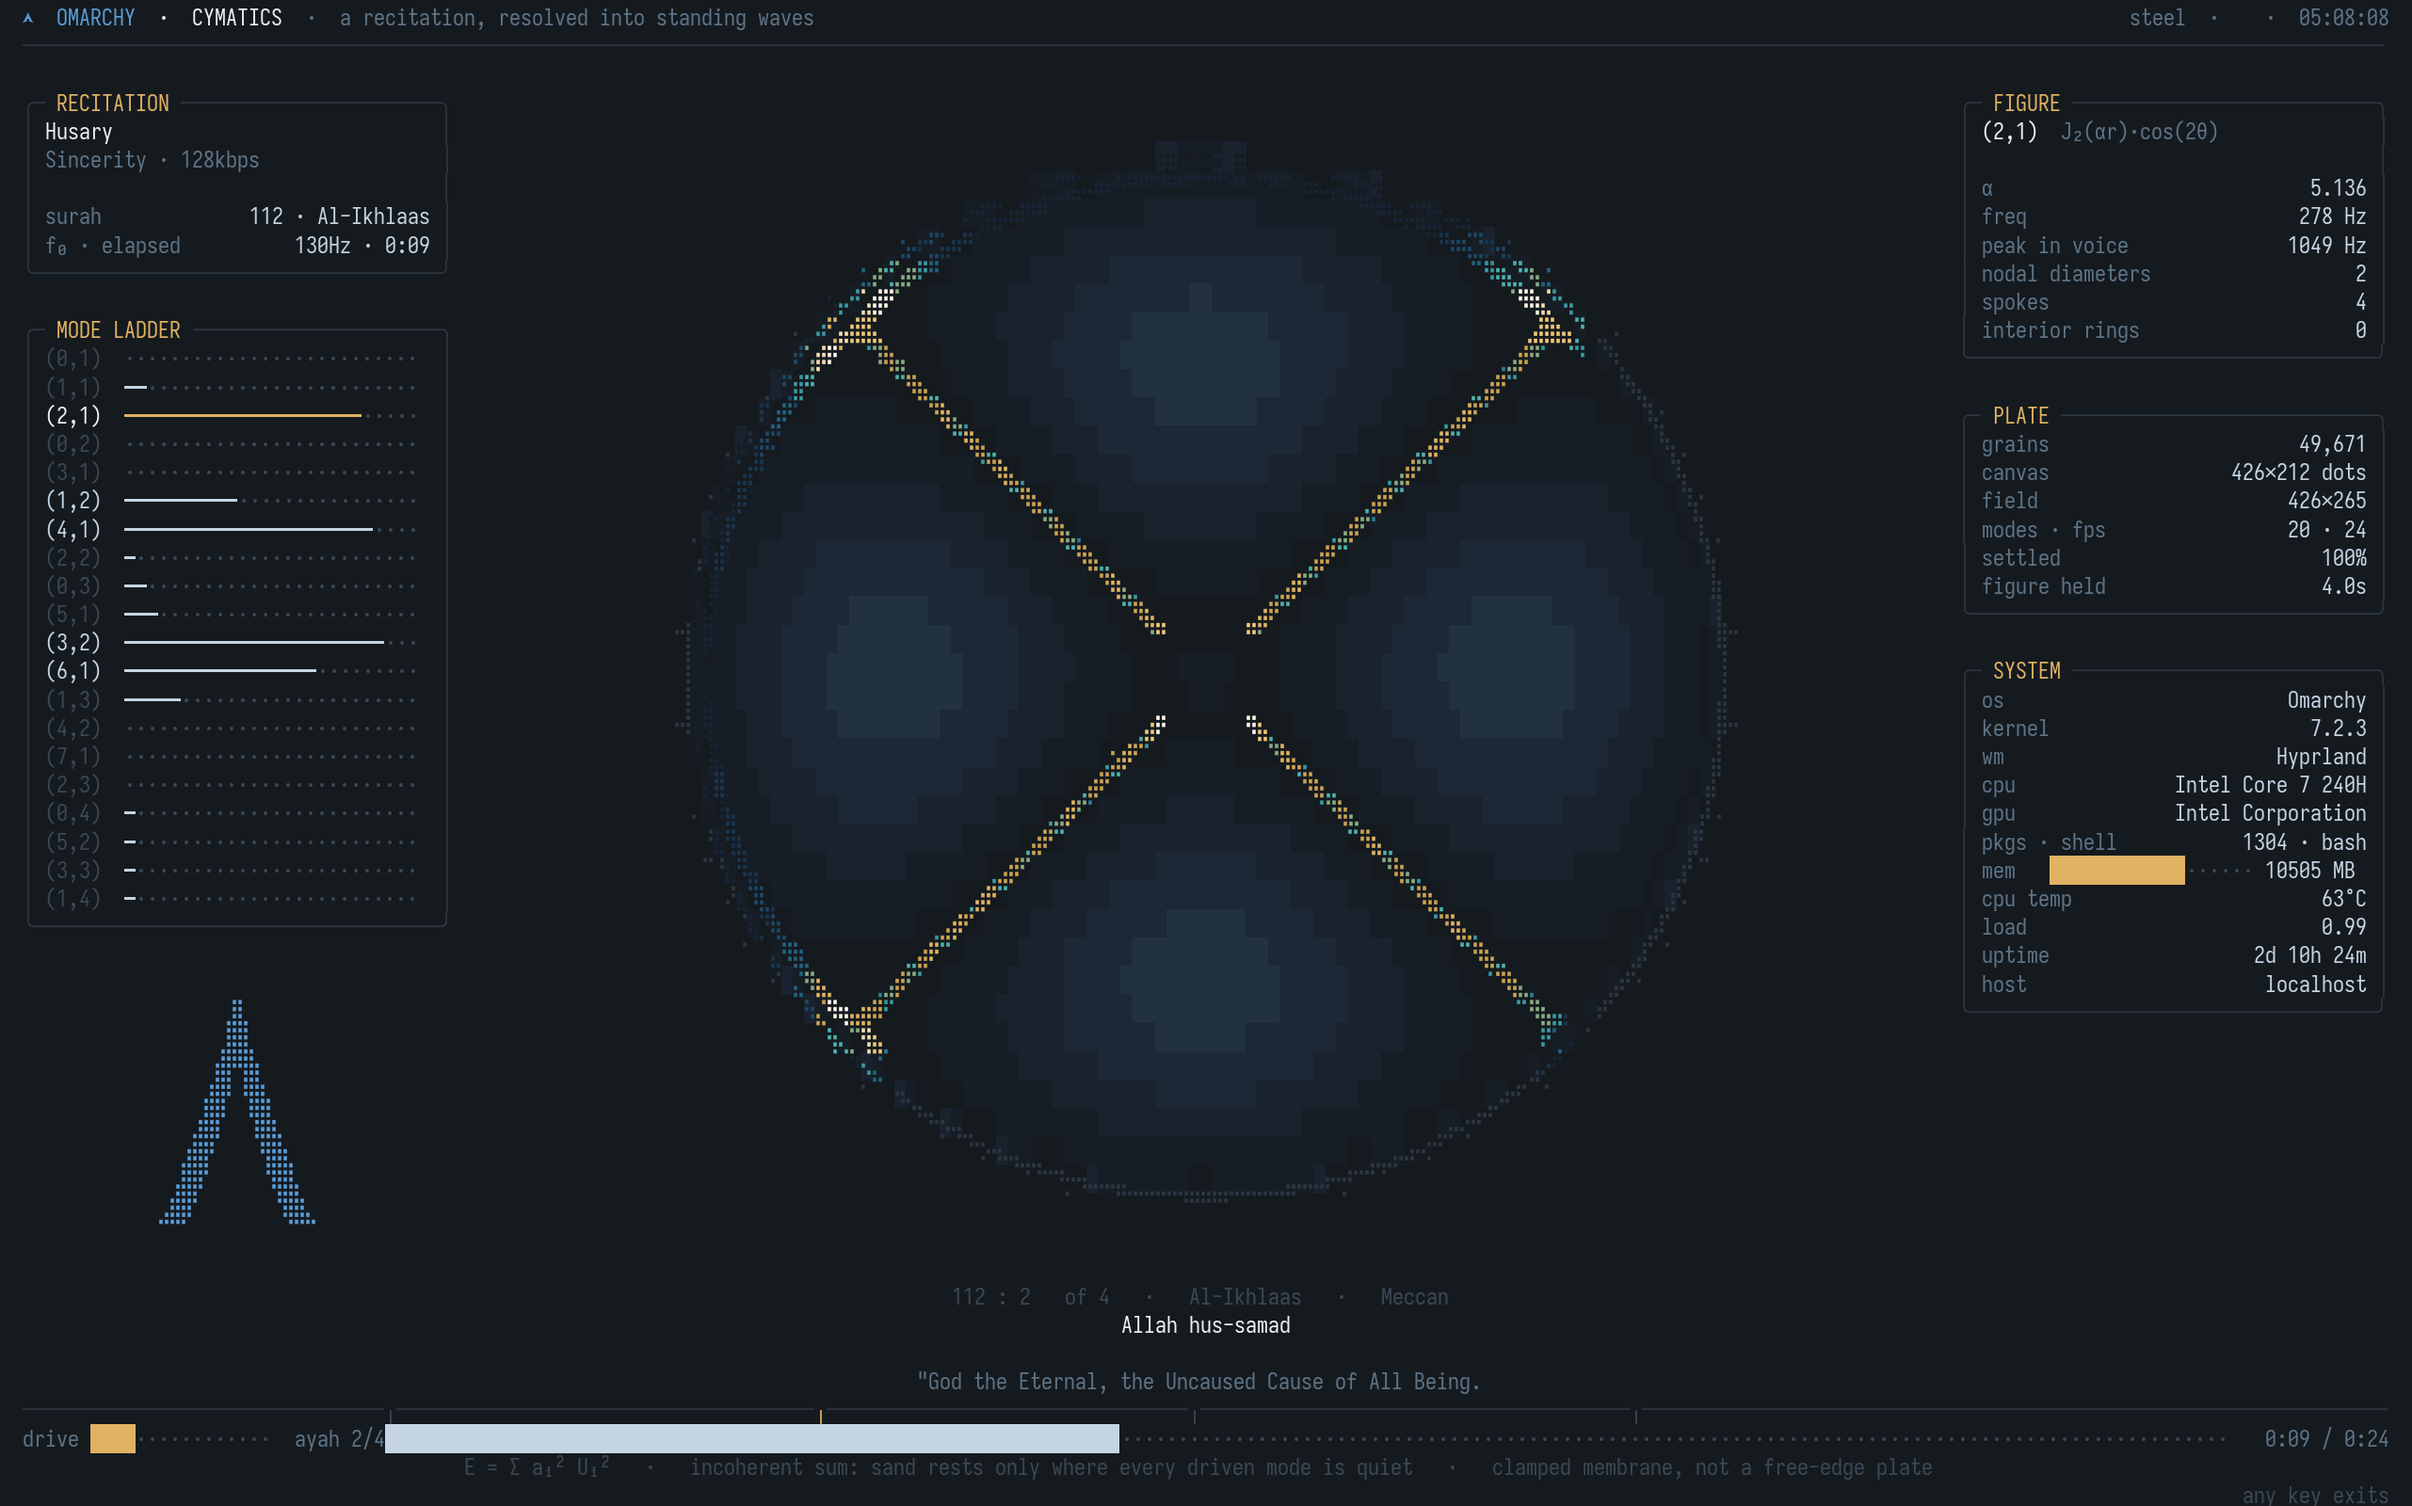
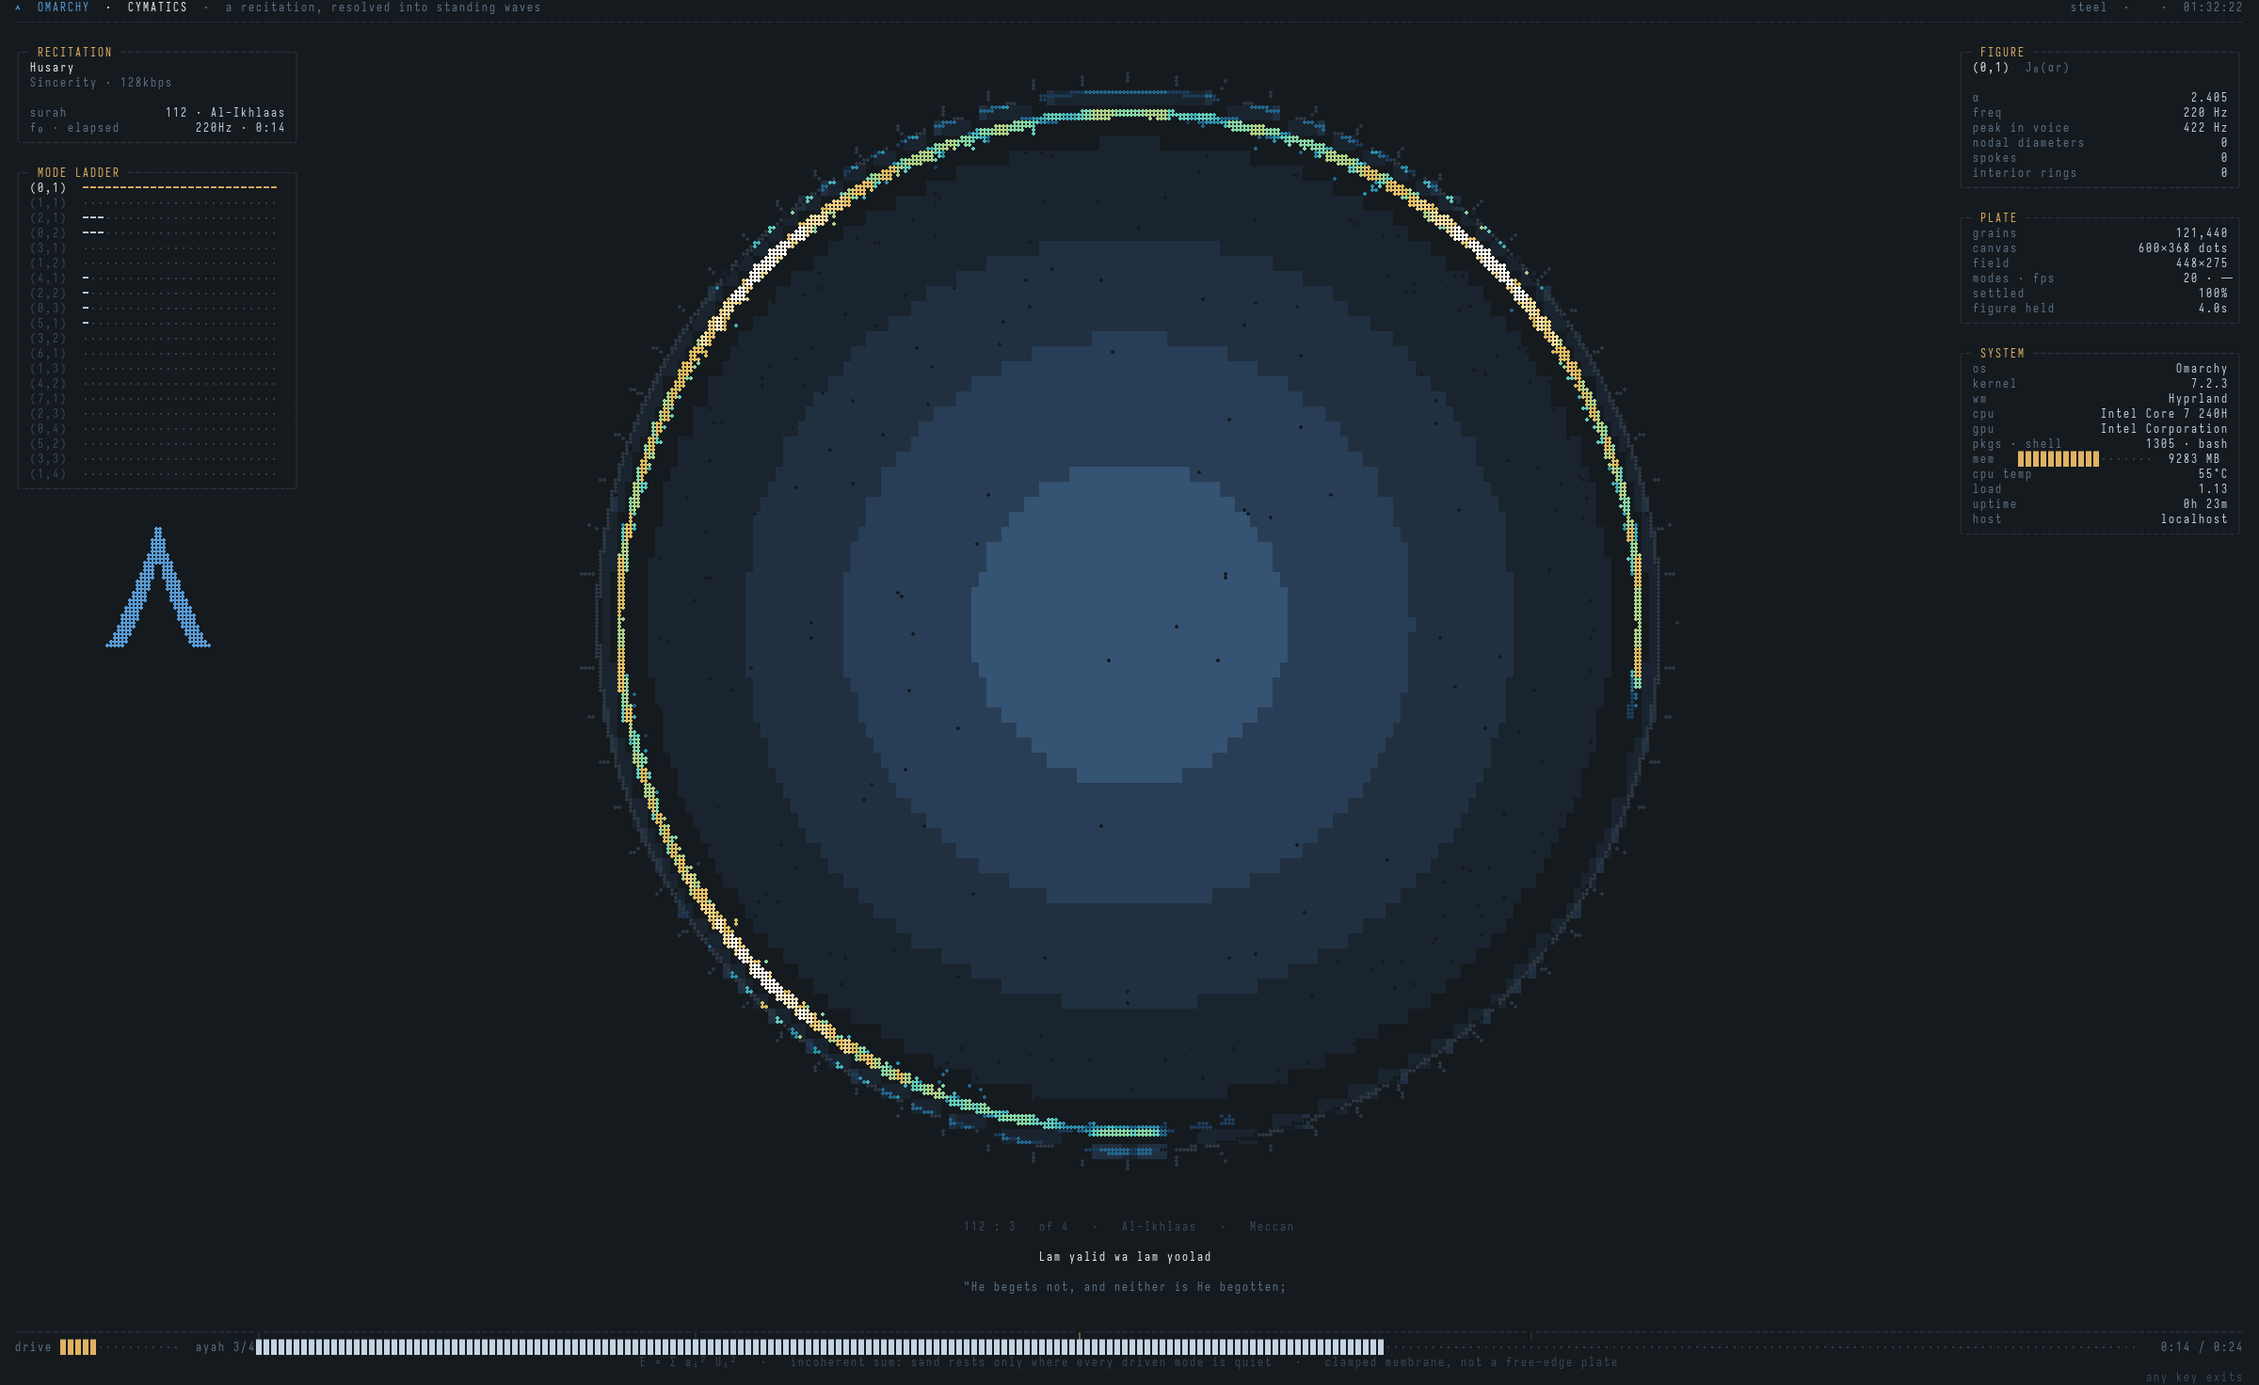
fix --start at display refresh rates; README catches up with what the code does
--START WAS BROKEN BY THE REFRESH-RATE CHANGE. It converted seconds to timeline
frames with args.fps, which was 24 -- the timeline's own rate -- until the
display's refresh rate became the default. On a 240Hz monitor `--start 3000`
asked for frame 720,000 of a 170,220-frame timeline and was clamped to the last
frame, so every --start rendered the same final moment. Found because an image
captioned as Al-Ikhlaas showed Al-Kahf; checked at the source by reading the
surah name out of the renderer's own output rather than the picture. Now uses
the timeline's rate; the display rate is for pacing only.

--dump no longer prints an unmeasured frame rate. It showed the target (240, from
the focused monitor) in a still image that reads like a benchmark, for a
renderer that sustains 67-89fps live. An unmeasured number is shown as a dash.

Recorded here because e07285d carried it without describing it: detect_refresh
now reads the FOCUSED monitor rather than the fastest one attached. It was
taking the maximum across outputs, which matched until a 239.757Hz external was
connected beside the 120Hz panel.

README: the pipeline section said the schedule was smoothed over ~2s and led by
1.5s, "measured: every transition fires at -1.50s". Both stale since the lock was
fixed; now tau 0.55s, hold 0.9s, lead 0.45s, re-measured as all 1,438
transitions firing 0.46s early. Adds the findings from this round: the objective
[…]

diff --git a/src/screensaver.py b/src/screensaver.py
@@ -1016,7 +1016,12 @@ def draw(chrome, st):
     ch.kv(y + 1, rx + 2, pw - 4, "grains", format(st["grains"], ","), L, V)
     ch.kv(y + 2, rx + 2, pw - 4, "canvas", "%d\u00d7%d dots" % (st["subw"], st["subh"]), L, V)
     ch.kv(y + 3, rx + 2, pw - 4, "field", "%d\u00d7%d" % (st["pw"], st["ph"]), L, V)
-    ch.kv(y + 4, rx + 2, pw - 4, "modes \u00b7 fps", "%d \u00b7 %.0f" % (len(st["amps"]), st["fps"]), L, V)
+    # A frame rate nobody measured is printed as a dash. In --dump the loop never
+    # runs, so this would otherwise show the TARGET -- 240 on a 240Hz monitor --
+    # in a still image that looks like a benchmark, for a renderer that measures
+    # 67-89fps live. A dashboard number should be a measurement or absent.
+    fps_txt = "\u2014" if not st["fps"] else "%.0f" % st["fps"]
+    ch.kv(y + 4, rx + 2, pw - 4, "modes \u00b7 fps", "%d \u00b7 %s" % (len(st["amps"]), fps_txt), L, V)
     ch.kv(y + 5, rx + 2, pw - 4, "settled", "%.0f%%" % (100 * st["settled"]), L, V)
     ch.kv(y + 6, rx + 2, pw - 4, "figure held", "%.1fs" % st["held"], L, V)
     y += 9
@@ -1355,7 +1360,14 @@ def main():
         starts = [int(o) for o in offs[:-1]] or [0]
         gi = starts[random.randrange(len(starts))]
     else:
-        gi = int(np.clip(args.start * args.fps, 0, total - 1))
+        # SECONDS OF TIMELINE, CONVERTED AT THE TIMELINE'S RATE. This used args.fps,
+        # which was the same number (24) until the display's refresh rate became
+        # the default. On a 240Hz monitor --start 3000 then asked for frame
+        # 720,000 of a 170,220-frame timeline, was clamped to the last frame, and
+        # every --start rendered the same final moment. The analysis runs at its
+        # own fixed rate; the display rate is for pacing only.
+        tl_fps = float(tl["meta"][0].get("fps", 24.0)) if tl.get("meta") else 24.0
+        gi = int(np.clip(args.start * tl_fps, 0, total - 1))
 
     stats = livestats(info)
 
@@ -1404,6 +1416,7 @@ def main():
         # changed this path's meaning, which is the kind of regression a flag
         # that only runs on request is best at hiding.
         sand.dts = 1.0
+        fps_meas = 0.0          # nothing was timed; the dashboard shows a dash
         for i in range(700):
             sand.step(E, GX, GY, 0.85 if i < 60 else 0.30)
         scr.set_field_bg(E, bank)

diff --git a/README.md b/README.md
@@ -4,8 +4,16 @@
 
 ![the plate](docs/screensaver.png)
 
+<sub>Husary reciting Ya-Sin 36:14. The figure is (1,3) — one nodal diameter and two
+interior rings, at 0.377 and 0.690 of the radius where J₁'s zeros put them. Its
+frequency is **550 Hz**; the peak in the voice at that moment is **551 Hz**. That is
+one well-chosen frame: across the whole library the correlation between recited
+pitch and the figure shown is a median of 0.50 per track. Rendered headlessly by
+`tools/render-dump.py`, so it carries no desktop.</sub>
+
 Sand on a vibrating plate collects wherever the plate is still. This simulates
-that — 50,000 grains on a clamped circular membrane, real Bessel eigenmodes — and
+that — 45,000 to 300,000 grains depending on plate size, on a clamped circular
+membrane with real Bessel eigenmodes — and
 renders it in braille sub-dots, so one terminal cell becomes a 2×4 block of
 pixels. Which figure appears is decided by analysing an actual recording.
 
@@ -24,17 +32,24 @@ seconds**. Sand needs **seconds** to migrate across the plate. Drive the field
 straight from the spectrum and the grains spend the entire time in transit — the
 plate never forms a figure at all, it just looks like noise.
 
-So the spectrum is integrated over ~2 s, a mode is committed to, held long
-enough to actually settle, and cross-faded when the recording has clearly moved
-on. And because the analysis is offline, the schedule does not have to be
-*causal*: it is smoothed **forward and backward** so the decision is centred on
-the moment rather than lagging it, then shifted **1.5 s early**, so a transition
-begins before the audio does and the sand has stopped moving by the time you hear
-why.
+So the spectrum is smoothed, a mode is committed to, held long enough to settle,
+and cross-faded when the recording has clearly moved on. Because the analysis is
+offline, the schedule does not have to be *causal*: it is smoothed **forward and
+backward** so the decision is centred on the moment rather than lagging it, then
+shifted early so a transition begins before the audio does.
+
+The first tuning of that overcorrected into a different desync. Smoothing over
+1.6 s and holding for 3 s removed the lag and replaced it with a **lock**: the
+figure settled and then sat there while the recitation moved on. A captured frame
+showed it directly — the figure panel read (1,1) while the live mode ladder's
+loudest modes were (5,1) and (0,3), with "figure held 3.9s" printed beside it.
+Recitation changes pitch roughly every half-second to second, so it is now
+smoothed over 0.55 s, held 0.9 s, and led by 0.45 s.
 
 ```
-figure schedule: zero-phase smoothing, hysteresis, 1.5s lead
-measured: every transition fires at -1.50s against the naive causal schedule
+figure schedule: zero-phase smoothing (tau 0.55s), hold 0.9s, lead 0.45s
+measured: all 1,438 transitions fire 0.46s early against the same schedule
+          with no lead (0.45s, snapped to whole frames at 24 fps)
 ```
 
 ## Things that were wrong, and how they were found
@@ -72,6 +87,78 @@ its *energy* goes as `r²ᵐ`. For (5,1) that is below 2% of peak out to 0.36 of
 radius — grains random-walk in and cannot get out. The dead zone is now measured
 per mode (0.00 for (0,1), 0.36 for (5,1)); one fixed radius cannot be right for
 all of them.
+
+**…and the fix for the mush dug a hole.** The dead zone was agitated uniformly,
+which stops a blob forming but cannot tell a nodal diameter from the space between
+two, so it swept the diameters out as well: a (2,1) cross rendered as four
+separate spokes ending in a ring of piled sand. Histogramming grain radius on a
+pure (2,1) field found **0 grains inside r = 0.05** and a ring at **6.76× uniform
+density** exactly where the treatment ended. Two causes, and fixing the obvious one
+alone changed nothing. The agitation is now shaped by `cos²(mθ)`, which is exactly
+zero on every diameter at every radius. But the drift had used the full gradient
+of `core(r)·cos²(mθ)`, and by the product rule that includes a **radial, outward**
+term — measured at +0.68 outward *on the nodal diagonal itself*. The drift now uses
+only the tangential term, computed analytically, because `np.gradient` of a polar
+pattern on a Cartesian grid leaks small radial components that still emptied
+high-m cores over hundreds of steps. After: density at r = 0.05–0.10 rose from
+0.24× to **5.98×** uniform and the ring flattened to 3.38×. High-m figures still
+keep a small clear centre — at r = 0.07 a (5,1) figure's ten spokes are ~4.6
+sub-dots apart and cannot be drawn as separate lines.
+
+**The figure did not follow the voice — because it was told not to.** Each
+recording's `f0` sets the whole mode ladder, and the search that picked it weighted
+`variety` — the fraction of the 20 modes used — as its largest term. So it chose
+whichever `f0` spread figures most evenly, and got exactly that: occupancy was
+**9–12% per mode**, near-uniform, a plate cycling through shapes on a schedule of
+its own. Variety should be a consequence of a good `f0`, never the target.
+Underneath it was a second defect the first one hid: the search grid ran 70–130 Hz
+and the ladder spans ~5.5× its `f0`, topping out near 720 Hz — while the recited
+pitch has a median of 410 Hz and a 90th percentile of **1,131 Hz**. No candidate
+could have answered most of the voice, and the winner still looked like a winner.
+The objective now scores **coverage** (does the ladder span this voice) and
+**tracking** (does the figure climb when the pitch climbs), over a grid reaching
+350 Hz. Now: occupancy concentrates (27%, 16%, 12%, 11%, 5% for the top five), and
+tracking — the correlation between recited pitch and the frequency of the figure
+shown — has a per-track median of **0.50** (0.24–0.75), **0.375** across the whole
+library. There is a ceiling on that number worth naming: pitch here is the FFT's
+spectral peak, often a harmonic rather than the fundamental.
+
+> A correction to this repo's own history: commit `76eafcc` cites a correlation of
+> 0.258 as the "before" figure. That number was computed with the first track's
+> `f0` applied to every track, which mislabels mode frequencies wherever `f0`
+> differs; the same method understates the current library as 0.293 against a
+> correct 0.375. The old timeline was overwritten, so no valid "before"
+> correlation exists — the occupancy and grid-ceiling evidence above does not
+> depend on it.
+
+**The loudness channel was a flat line.** Frame-by-frame loudness is the only thing
+that answers the voice instantly, and it was computed against a hardcoded
+reference that these recordings saturated: median 1.599, 90th percentile 1.600,
+maximum 1.600 — over half of every track pinned at the clip ceiling, so the plate
+was struck with identical force through loud passages and silence. Referenced to
+each track's own 90th-percentile loudness, no frame sits at the ceiling and the
+swing in agitation went from 1.55× to 2.18×.
+
+**A faster frame rate made a different picture, not a smoother one.** Raising the
+frame rate ran the physics more times per second of audio, so at 120 fps sand
+travelled five times as far: "settled" fell from 99% to 69% and figures held for
+0.2 s. Diffusion now scales with `√dt` and drift with `dt`, and `dt` is read from
+the clock rather than the requested rate, because asked for 120 the renderer
+sustains about 67–89 — a timestep derived from the flag would have run the physics
+at 55% speed. The default rate is the refresh rate of the monitor it opens on.
+
+**Every visual check was of the wrong program.** The screenshots were real,
+correctly captured, and of a stale window: `setsid foot &` returns a PID that is
+not the window's process, so killing it never closed the previous instance, the
+new code crashed on launch (a variable used four lines before it was assigned),
+and the old window stayed up to be photographed. The crash shipped in two commits
+reported as visually verified. `tools/render-dump.py` replaces that method: it runs
+`--dump` in a pseudo-terminal of a chosen size and draws the output straight to a
+PNG — no terminal, window or compositor, so the same arguments give the same image
+and there is no stale process to photograph. It refuses to write a frame with no
+plate in it, which is how it found the crash on its second run; its *first* run had
+rendered an argparse error into a PNG and reported success. Every image in this
+README is now produced by it, with `--anonymise`.
 
 ## The physics
 
